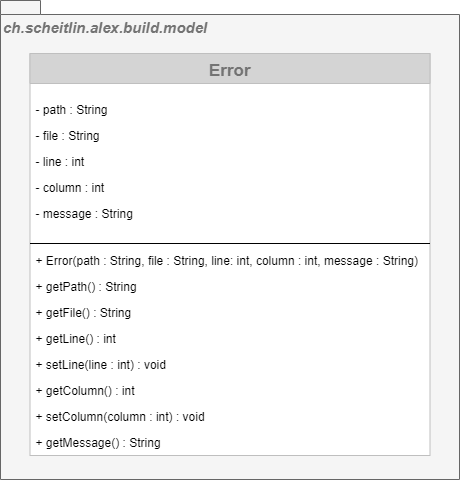
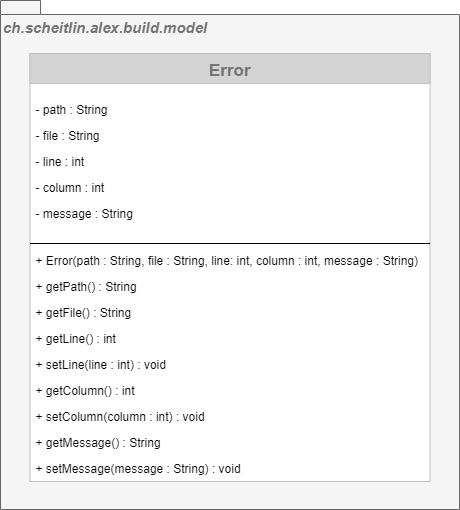
Add setter for message in error-model

Changed region(s): [[0.0, 0.0, 1.0, 0.9688], [0.3957, 0.8125, 0.4565, 0.875]]

diff --git a/error-model/src/test/java/ch/scheitlin/alex/build/model/ErrorTest.java b/error-model/src/test/java/ch/scheitlin/alex/build/model/ErrorTest.java
@@ -68,12 +68,13 @@ public class ErrorTest {
     }
 
     @Test
-    public void getMessage() {
+    public void setAndGetMessage() {
         // assign variables with test data
         String expectedMessage = "message";
 
         // allocate test objects
-        Error error = new Error(null, null, 0, 0, expectedMessage);
+        Error error = new Error(null, null, 0, 0, null);
+        error.setMessage(expectedMessage);
 
         // execute method to be tested
         String actualMessage = error.getMessage();

diff --git a/error-model/src/main/java/ch/scheitlin/alex/build/model/Error.java b/error-model/src/main/java/ch/scheitlin/alex/build/model/Error.java
@@ -108,4 +108,13 @@ public class Error {
     public String getMessage() {
         return this.message;
     }
+
+    /**
+     * Sets the error message describing the error.
+     *
+     * @param message the error message describing the error
+     */
+    public void setMessage(String message) {
+        this.message = message;
+    }
 }
